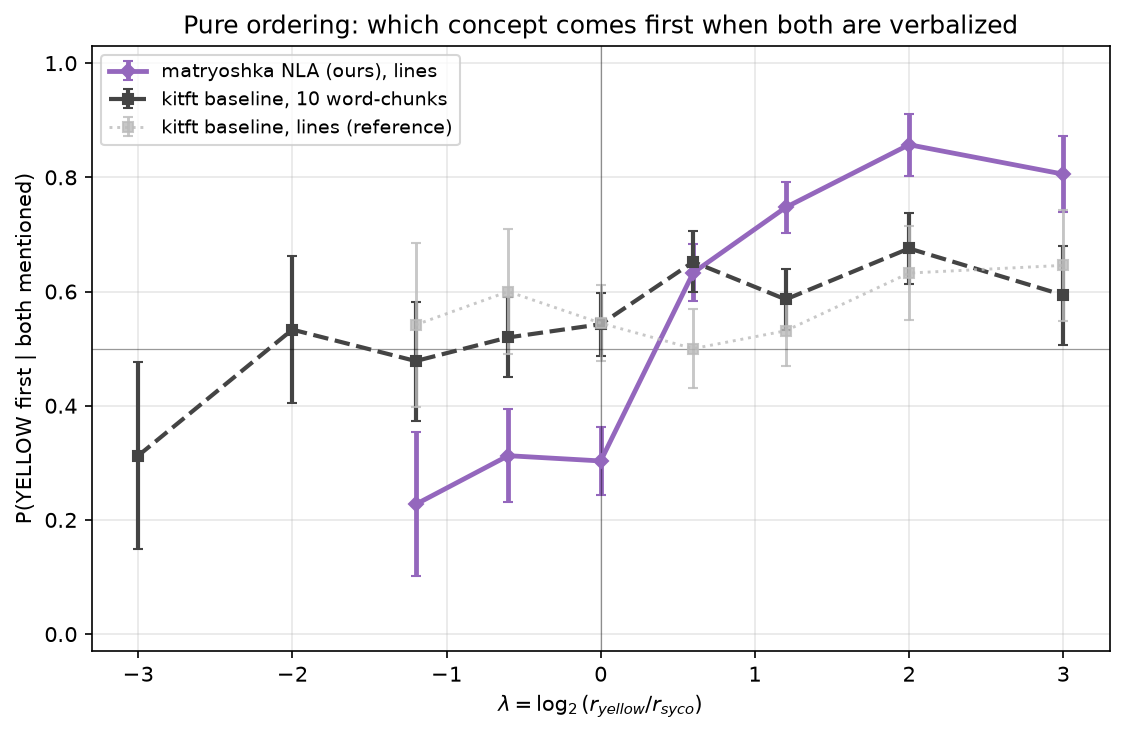
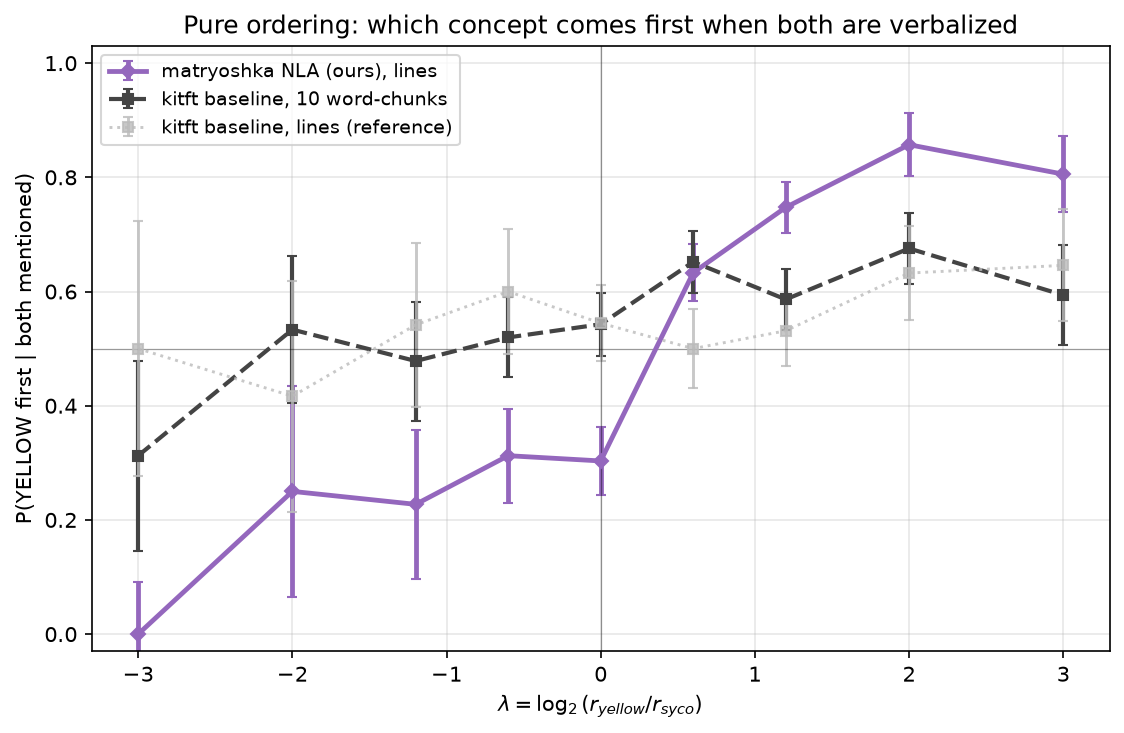
🩹 figR4/figR6: plot all lambda points with Jeffreys-smoothed error bars instead of dropping sparse both-present cells
Claude-Session: https://claude.ai/code/session_013QpD8gUKVwdg5FeGc2gDm2

diff --git a/experiments/qwen2.5-matryoshka-warmstart-sonnet46/ratio_steering/plot_ratio_chunks.py b/experiments/qwen2.5-matryoshka-warmstart-sonnet46/ratio_steering/plot_ratio_chunks.py
@@ -88,9 +88,16 @@ for figname, title, cond in (
             v = yellow_first(x)
             if v is not None:
                 byl[x["lam"]].append(v)
-        ls = sorted(l for l in byl if len(byl[l]) >= 8)
+        # every lam is plotted; sparse points (both-present is rare at extreme lam)
+        # carry their uncertainty in the error bar (Jeffreys-smoothed SE, so n=6 at
+        # p=0 or 1 doesn't show a zero-width bar)
+        ls = sorted(byl)
         mu = [np.mean(byl[l]) for l in ls]
-        se = [np.sqrt(max(np.mean(byl[l]) * (1 - np.mean(byl[l])), 1e-9) / len(byl[l])) for l in ls]
+        se = []
+        for l in ls:
+            n = len(byl[l])
+            pj = (np.sum(byl[l]) + 0.5) / (n + 1)
+            se.append(np.sqrt(pj * (1 - pj) / n))
         ax.errorbar(ls, mu, yerr=se, fmt=style, color=c, lw=lw, ms=4.5, capsize=2.5, alpha=alpha, label=lbl)
     ax.axhline(0.5, color="k", lw=.6, alpha=.4); ax.axvline(0, color="k", lw=.6, alpha=.4)
     ax.set_xlabel(r"$\lambda = \log_2(r_{yellow}/r_{syco})$")

diff --git a/experiments/qwen2.5-matryoshka-warmstart-sonnet46/ratio_steering/plot_ratio.py b/experiments/qwen2.5-matryoshka-warmstart-sonnet46/ratio_steering/plot_ratio.py
@@ -128,9 +128,13 @@ for m, rows in data.items():
         if x["fy"] is None or x["fs"] is None:
             continue
         byl[x["lam"]].append(yellow_first(x))
-    ls = sorted(l for l in byl if len(byl[l]) >= 8)
+    ls = sorted(byl)
     mu = [np.mean(byl[l]) for l in ls]
-    se = [np.sqrt(max(np.mean(byl[l]) * (1 - np.mean(byl[l])), 1e-9) / len(byl[l])) for l in ls]
+    se = []
+    for l in ls:
+        n = len(byl[l])
+        pj = (np.sum(byl[l]) + 0.5) / (n + 1)
+        se.append(np.sqrt(pj * (1 - pj) / n))
     ax.errorbar(ls, mu, yerr=se, fmt=STYLE[m], color=C[m], lw=2.0, ms=4.5, capsize=2.5, label=LBL[m])
 ax.axhline(0.5, color="k", lw=.6, alpha=.4); ax.axvline(0, color="k", lw=.6, alpha=.4)
 ax.set_xlabel(r"$\lambda = \log_2(r_{yellow}/r_{syco})$")
